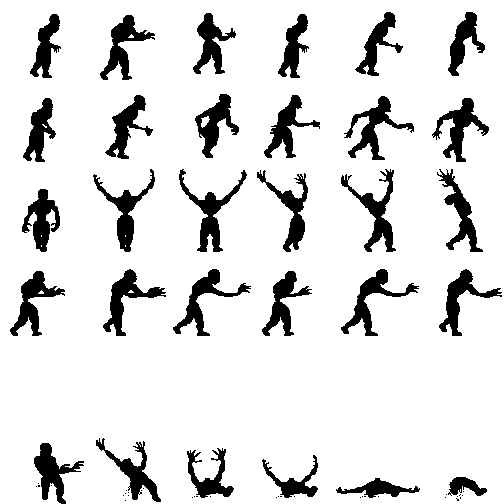
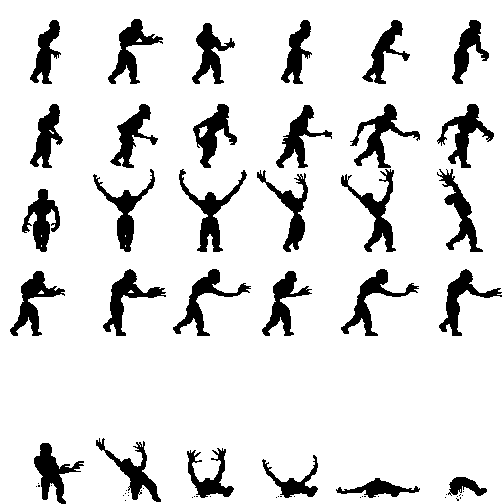
zombie align

diff --git a/body.c b/body.c
@@ -13,7 +13,7 @@ void body_render(App *app, Body *body) {
 
 	SDL_Rect dest = {
 		body->pos.x - body->sprite->target_frame_size.x/2 - app->map_x,
-		body->pos.y - body->sprite->target_frame_size.y*2/5 - app->map_y,
+		body->pos.y - body->sprite->target_frame_size.y/2 - app->map_y,
 		0, 0
 	};
 
